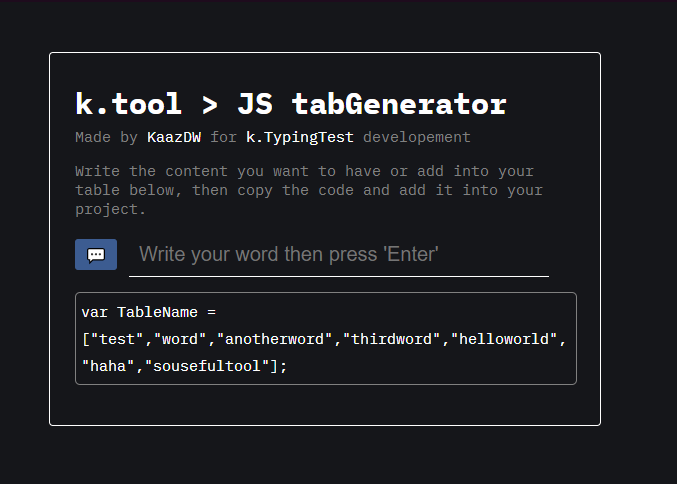
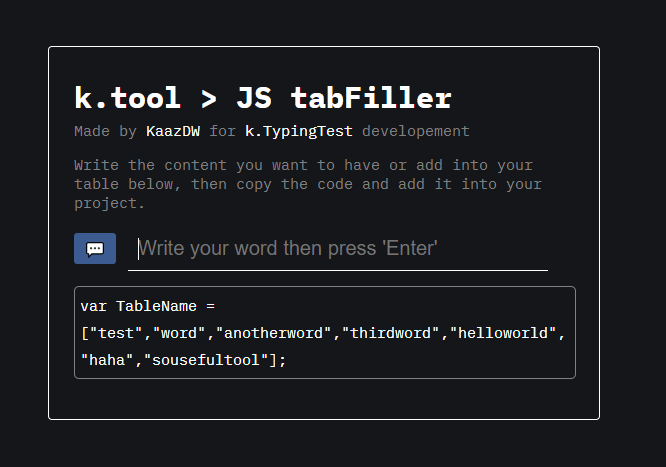
update

diff --git a/index.html b/index.html
@@ -10,7 +10,7 @@
 </head>
 <body>
     <main>
-        <h2>k.tool > <a href="https://github.com/KaazDW/k.TabFiller" target="_blank">JS tabGenerator</a></h2>
+        <h2>k.tool > <a href="https://github.com/KaazDW/k.TabFiller" target="_blank">JS tabFiller</a></h2>
         <p>Made by <a href="https://github.com/KaazDW"  target="_blank">KaazDW</a> for <a href="https://github.com/KaazDW/k.TypingTest" target="_blank">k.TypingTest</a> developement</p>
         <p class="explain">
             Write the content you want to have or add into your table below, then copy the code and add it into your project.
